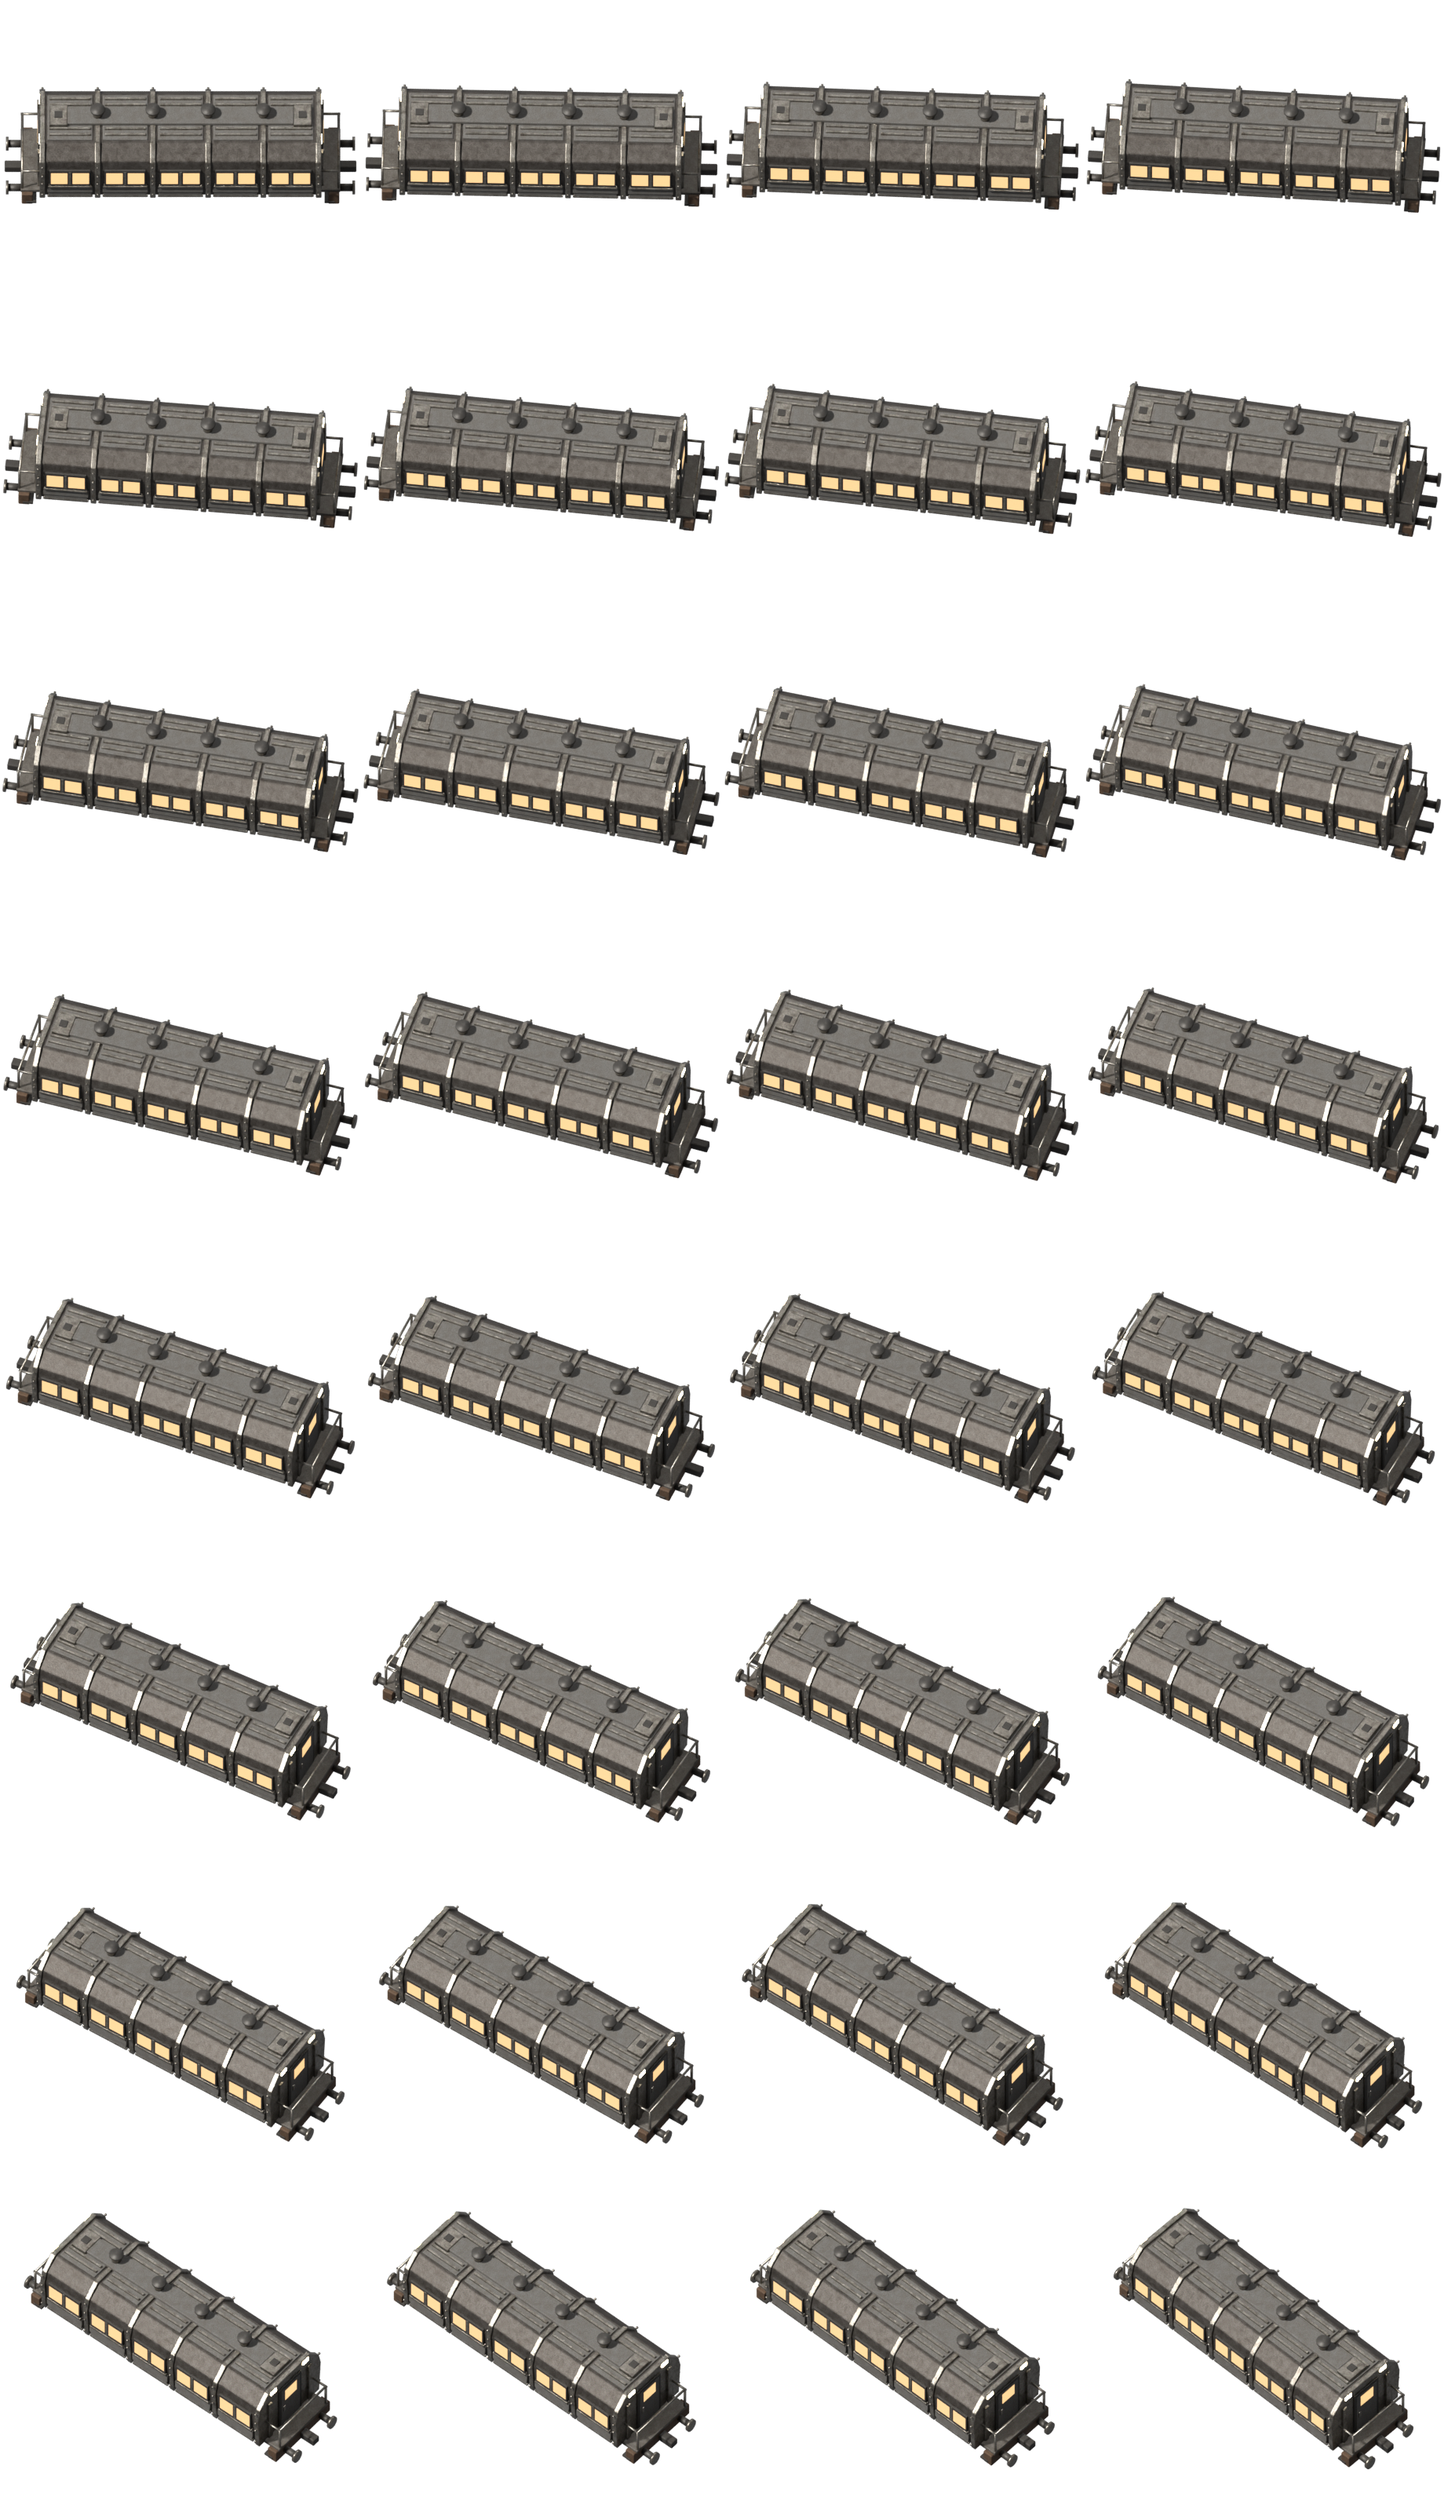
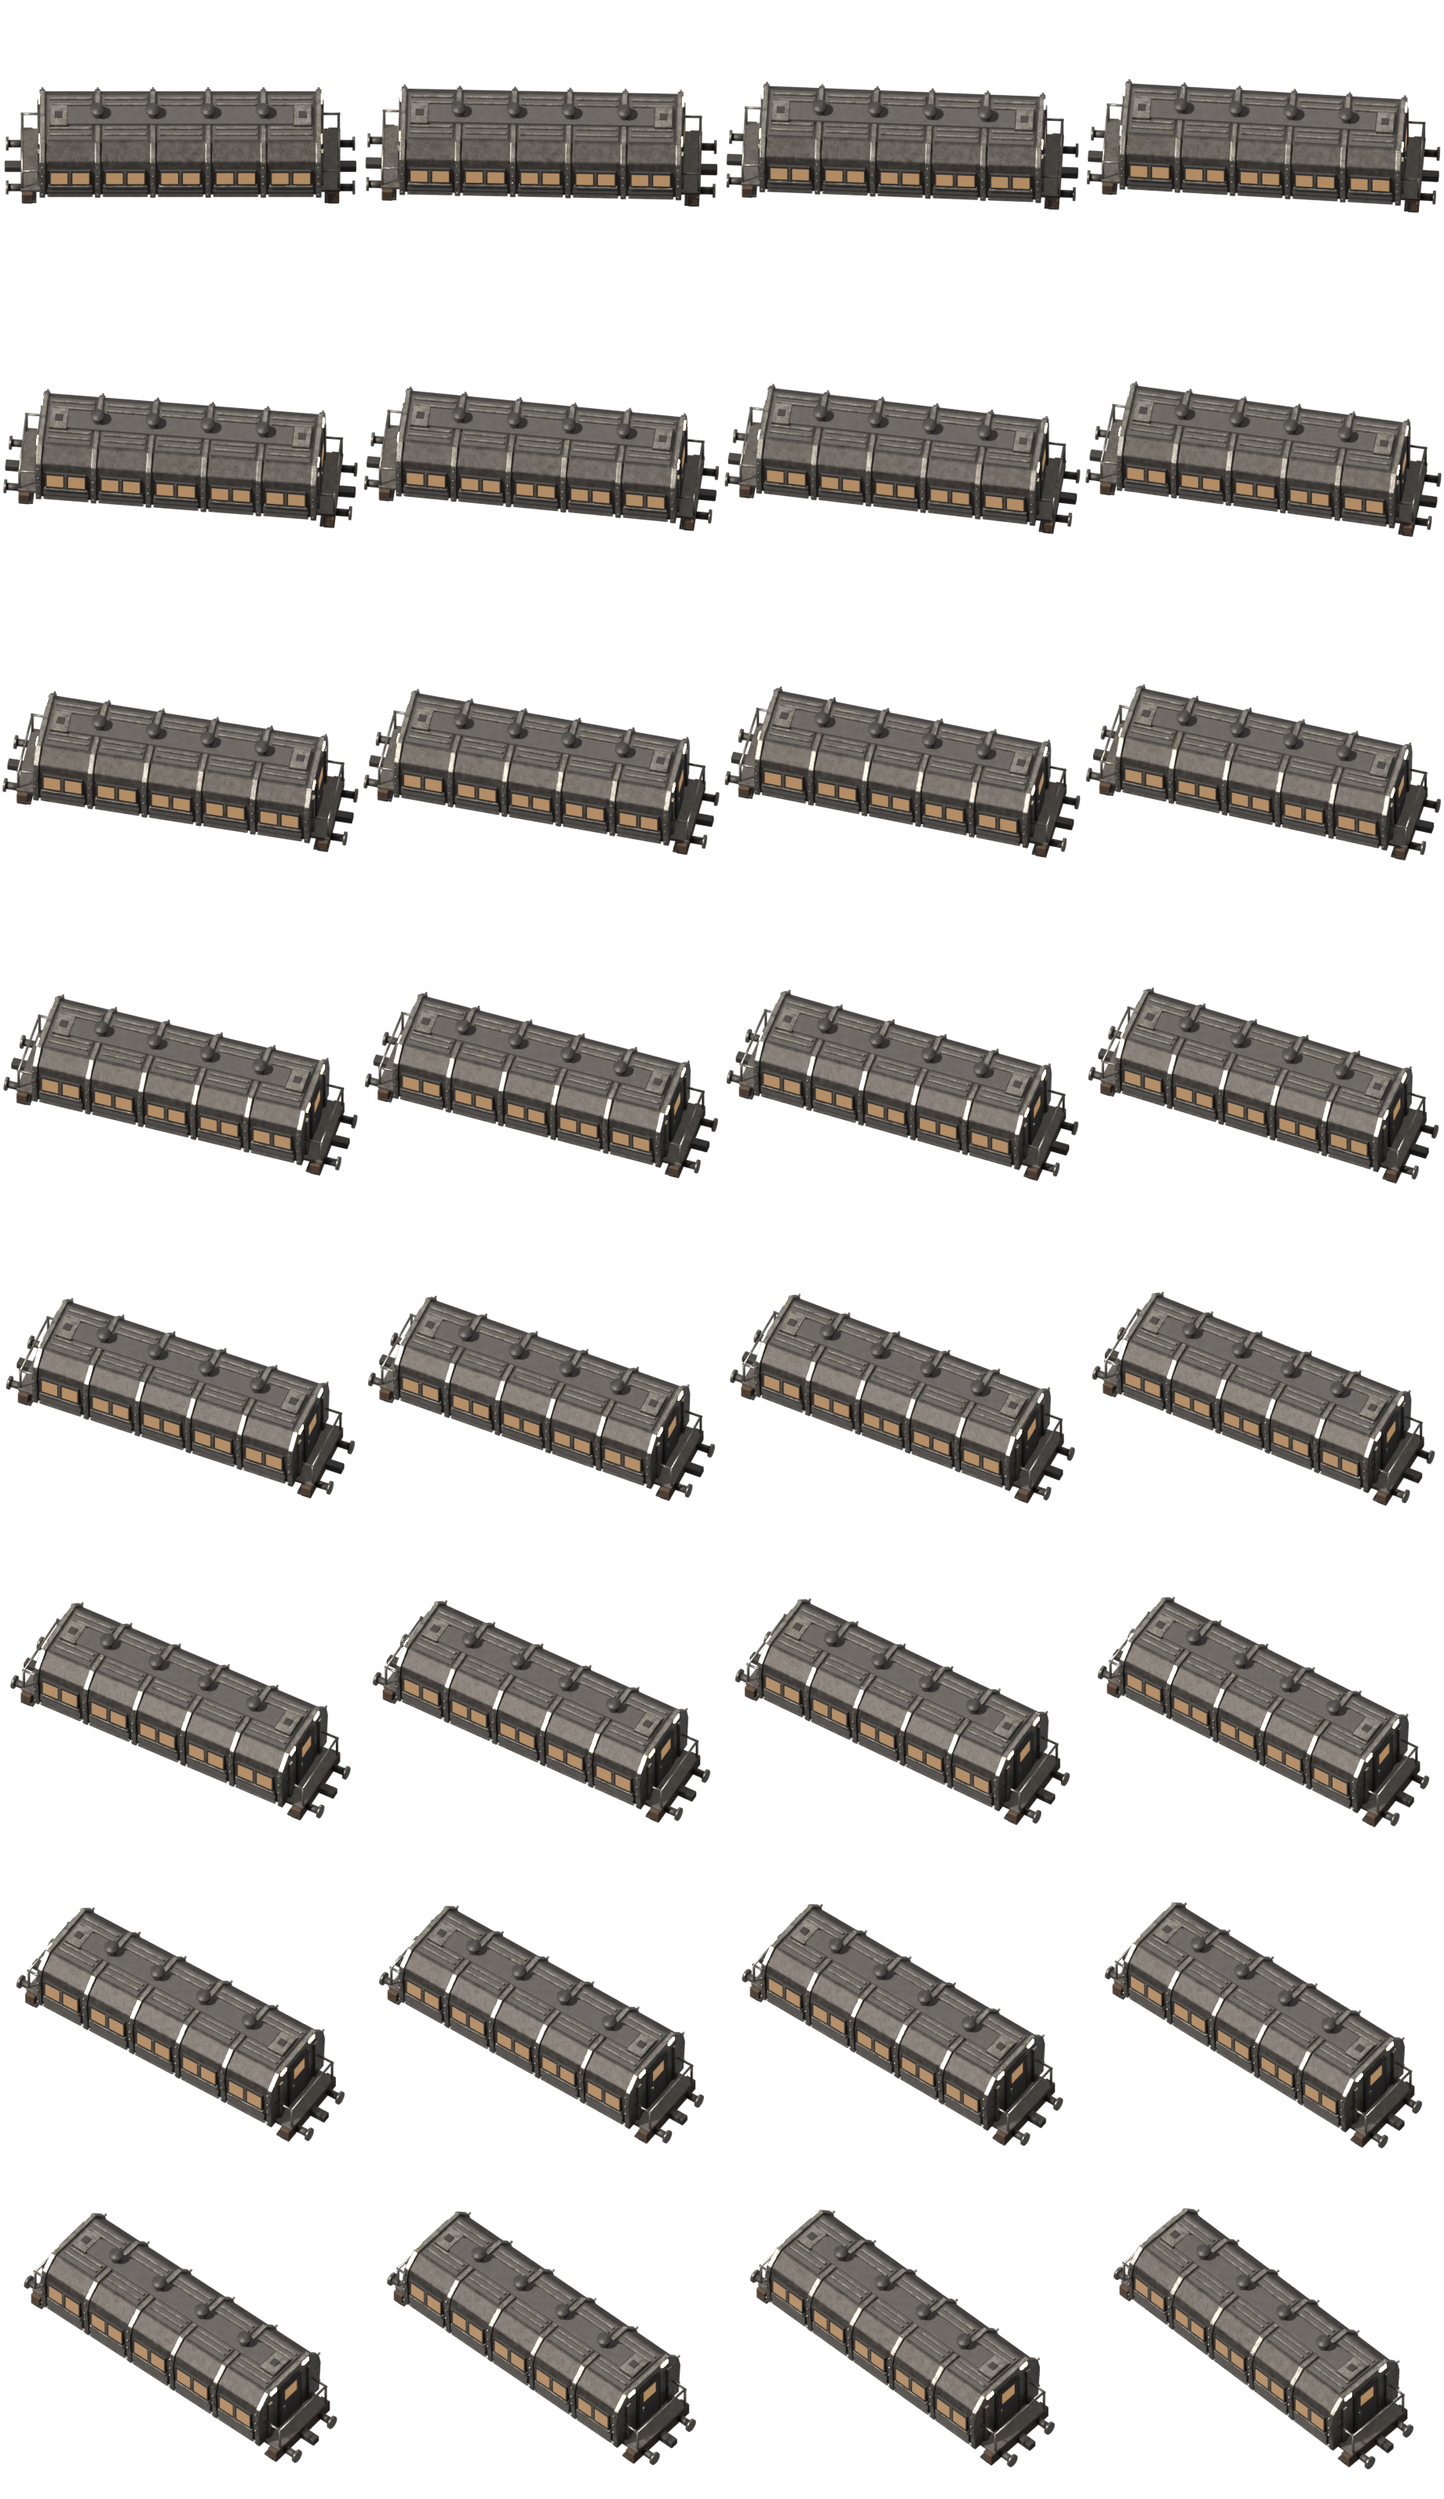
Crew wagon: muted, weathered colours like the vanilla wagons
The tint mask now matches vanilla's masks: mid grey carrying the paint's own
grime and shading at low opacity, so the train colour reads as worn paint
instead of a flat fill. Windows glow a dim amber, the paint is darker, and the
default colour and icon are a muted steel blue.

Claude-Session: https://claude.ai/code/session_014Wemv5cwp5HYEAEZSMe3qC

diff --git a/image-builder/crew-wagon/pack_sprites.py b/image-builder/crew-wagon/pack_sprites.py
@@ -13,6 +13,7 @@ for data.lua.
 import os
 import sys
 
+import numpy as np
 from PIL import Image
 
 DIRECTIONS = 128
@@ -32,25 +33,36 @@ def union_bbox(frames):
 	return (max(0, box[0] - PAD), max(0, box[1] - PAD), min(FRAME_PX, box[2] + PAD), min(FRAME_PX, box[3] + PAD))
 
 
-def prepare(layer, im):
+def prepare(layer, im, color=None):
 	if layer == "shadow":
 		# vanilla shadows are pure black with the darkness in alpha
 		alpha = im.getchannel("A").point(lambda a: 0 if a < 16 else a)
 		im = Image.new("RGBA", im.size, (0, 0, 0, 0))
 		im.putalpha(alpha)
 	elif layer == "mask":
-		# a soft, desaturated overlay like the vanilla masks
-		alpha = im.getchannel("A").point(lambda a: a * 0.9)
-		# Factorio overlays the tint onto the mask itself, so mid grey gives
-		# the train colour at full strength; lighter would wash it out
-		gray = im.convert("L").point(lambda v: int(v * 0.54))
-		im = Image.merge("RGBA", (gray, gray, gray, alpha))
+		# Match the vanilla wagon masks: mid grey carrying the paint's grime and
+		# shading (mean ~105, spread ~50) at low opacity (mean alpha ~90), so
+		# the train colour reads as weathered paint rather than a flat fill.
+		cover = np.asarray(im.getchannel("A"), dtype=np.float32) / 255
+		lum = np.asarray(color.convert("L"), dtype=np.float32)
+		inside = cover > 0.5
+		if inside.any():
+			mean, std = lum[inside].mean(), max(lum[inside].std(), 1.0)
+		else:
+			mean, std = 128.0, 1.0
+		gray = np.clip(105 + 50 * (lum - mean) / std, 20, 220)
+		alpha = cover * np.clip(0.2 + 0.15 * gray / 105, 0.12, 0.5)
+		g = Image.fromarray(gray.astype(np.uint8))
+		im = Image.merge("RGBA", (g, g, g, Image.fromarray((alpha * 255).astype(np.uint8))))
 	return im
 
 
 def pack(src, dst, layer, name):
-	frames = [prepare(layer, Image.open(os.path.join(src, layer, f"{i:03d}.png")).convert("RGBA"))
-		for i in range(DIRECTIONS)]
+	frames = []
+	for i in range(DIRECTIONS):
+		im = Image.open(os.path.join(src, layer, f"{i:03d}.png")).convert("RGBA")
+		color = Image.open(os.path.join(src, "color", f"{i:03d}.png")).convert("RGBA") if layer == "mask" else None
+		frames.append(prepare(layer, im, color))
 	x0, y0, x1, y1 = union_bbox(frames)
 	w, h = x1 - x0, y1 - y0
 	per_file = COLUMNS * ROWS_PER_FILE

diff --git a/image-builder/crew-wagon/crew_wagon.py b/image-builder/crew-wagon/crew_wagon.py
@@ -158,9 +158,9 @@ def make_materials():
 	m["rib"] = node_material("rib", (0.36, 0.35, 0.32), metallic=0.85, rough=0.32, grime=0.45)
 	m["chassis"] = node_material("chassis", (0.15, 0.085, 0.045), metallic=0.5, rough=0.65, grime=0.55)
 	m["dark"] = node_material("dark", (0.05, 0.048, 0.045), metallic=0.5, rough=0.55, grime=0.2, bump=0.1)
-	m["stripe"] = node_material("stripe", (0.15, 0.15, 0.145), metallic=0.15, rough=0.7, grime=0.25)
+	m["stripe"] = node_material("stripe", (0.11, 0.105, 0.1), metallic=0.15, rough=0.7, grime=0.25)
 	m["glass"] = node_material("glass", (0.04, 0.04, 0.045), metallic=0.0, rough=0.12,
-		emission=(1.0, 0.62, 0.28, 1), strength=1.1, grime=0.1, bump=0)
+		emission=(0.9, 0.5, 0.2, 1), strength=0.45, grime=0.1, bump=0)
 	m["lamp"] = node_material("lamp", (1, 0.9, 0.7), metallic=0, rough=0.3,
 		emission=(1.0, 0.85, 0.55, 1), strength=14.0, grime=0, bump=0)
 	return m
@@ -363,7 +363,7 @@ def setup_scene(args):
 
 	# key light from the upper left like vanilla sprites, shadows fall to the right
 	sun = bpy.data.lights.new("sun", "SUN")
-	sun.energy = 5.5
+	sun.energy = 5.0
 	sun.angle = math.radians(4)
 	sun_obj = bpy.data.objects.new("sun", sun)
 	sun_obj.rotation_euler = (math.radians(32), math.radians(-22), math.radians(-35))
@@ -463,8 +463,8 @@ def render_frames(args):
 		# show the paint in the wagon's default blue, as the game would
 		for node in m["stripe"].node_tree.nodes:
 			if node.bl_idname == "ShaderNodeMix" and node.blend_type == "MIX":
-				node.inputs[6].default_value = (0.04, 0.12, 0.22, 1)
-				node.inputs[7].default_value = (0.08, 0.24, 0.45, 1)
+				node.inputs[6].default_value = (0.05, 0.07, 0.09, 1)
+				node.inputs[7].default_value = (0.1, 0.15, 0.2, 1)
 		scene.render.resolution_x = 256
 		scene.render.resolution_y = 256
 		turn.rotation_euler = (0, 0, -math.radians(24))
